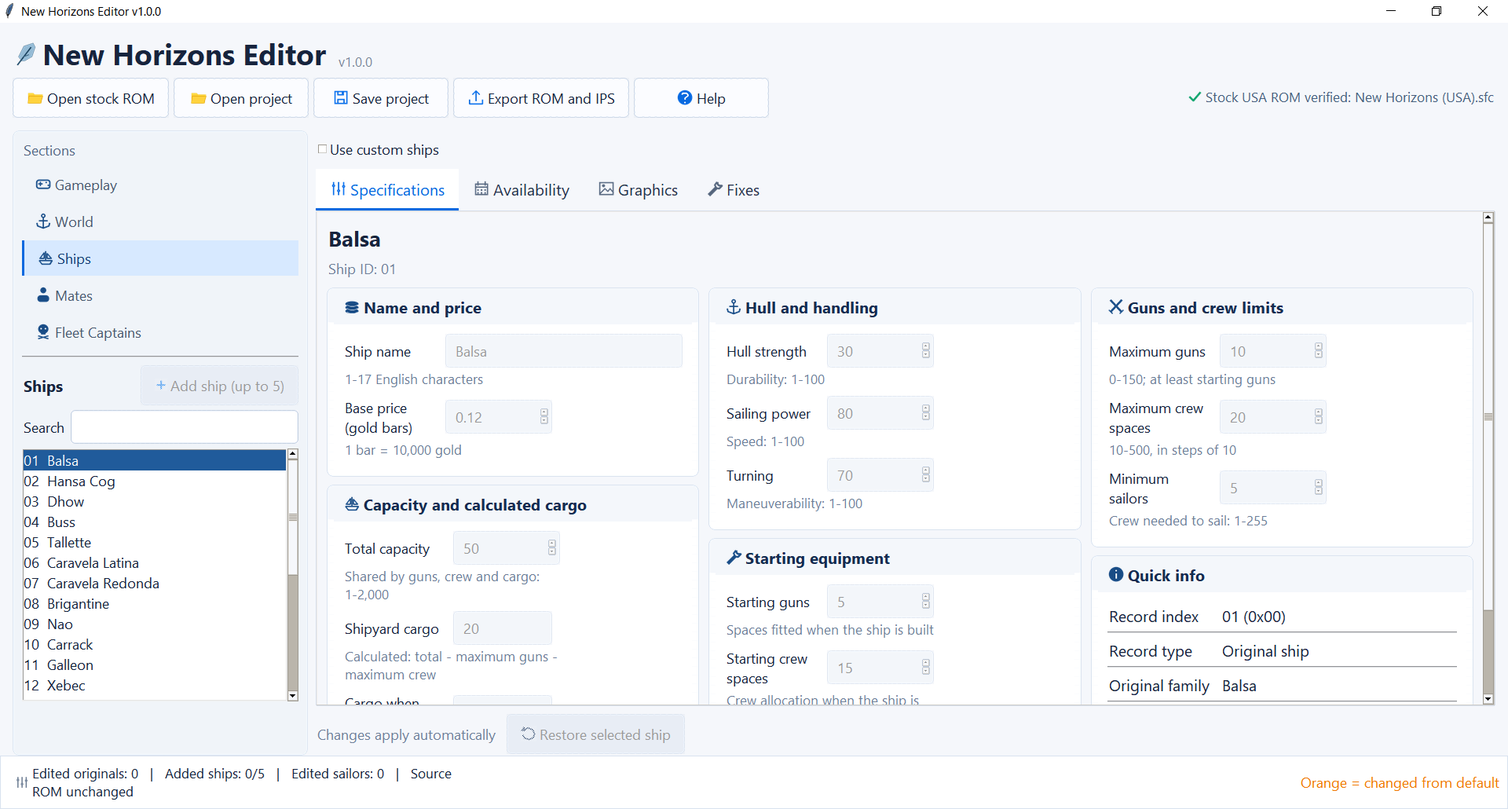
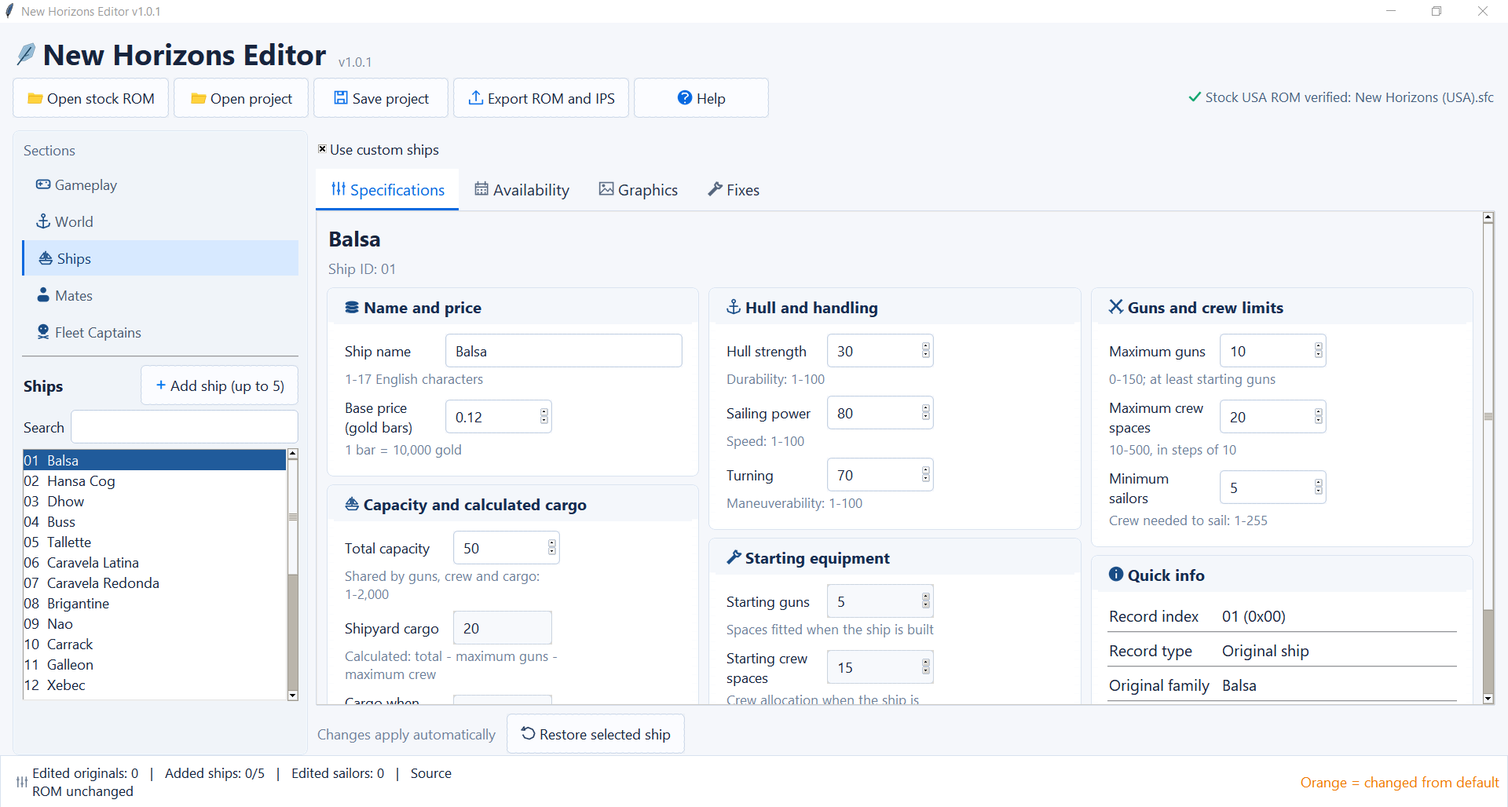
Release v1.0.1 — Improvements and bug fixes

diff --git a/tools/package_maintenance_release.py b/tools/package_maintenance_release.py
@@ -1,0 +1,68 @@
+"""Publish an isolated v1.0.1 backport after scope, isolation and test audits."""
+import argparse,hashlib,json,shutil,zipfile
+from pathlib import Path
+ROOT=Path(__file__).resolve().parents[1]
+CHECKS=('item-shuffle','goods-shuffle','presets','help')
+MODIFIED={'mod_tool/item_shuffle_view.py','mod_tool/goods_shuffle_view.py','mod_tool/app.py','mod_tool/backend.py','mod_tool/VERSION','mod_tool/README.md','mod_tool/README.txt','mod_tool/CHANGELOG.md','mod_tool/DEVELOPMENT.md'}
+
+
+def sha(path):return hashlib.sha256(path.read_bytes()).hexdigest()
+def normalized(data):return data.decode('utf-8').replace('\r\n','\n')
+
+
+def main():
+    parser=argparse.ArgumentParser()
+    for key in ('stage','destination','base-source','dev-snapshot'):parser.add_argument('--'+key,type=Path,required=True)
+    args=parser.parse_args();stage=args.stage;destination=args.destination
+    exe=stage/'Windows/New Horizons Ship Editor.exe';digest=sha(exe)
+    for name in CHECKS:
+        data=json.loads((stage/'packaged'/f'{name}.json').read_text(encoding='utf-8'))
+        assert data['status']=='PASS'and data['version']=='1.0.1'and data['exe_sha256']==digest
+    unit=(stage/'unit-tests.txt').read_text(encoding='utf-8')
+    assert 'Ran 50 tests'in unit and '\nOK\n'in unit and 'FAILED'not in unit
+    snapshots=json.loads(args.dev_snapshot.read_text(encoding='utf-8'))
+    assert all(Path(path).is_file()and sha(Path(path))==expected for path,expected in snapshots.items()),'v1.1-dev changed'
+    modified=[]
+    with zipfile.ZipFile(args.base_source)as original:
+        old={name.split('/',1)[1]:original.read(name)for name in original.namelist()if not name.endswith('/')}
+        for relative,content in old.items():
+            path=ROOT/relative;assert path.is_file(),relative
+            if path.read_bytes()!=content:modified.append(relative)
+        assert set(modified)==MODIFIED,modified
+        new_backend=(ROOT/'mod_tool/backend.py').read_text(encoding='utf-8')
+        assert new_backend.replace("TOOL_VERSION='1.0.1'","TOOL_VERSION='1.0.0'")==normalized(old['mod_tool/backend.py'])
+        main=(ROOT/'mod_tool/app.py').read_text(encoding='utf-8')
+        for kind in ('item','goods'):
+            block=f"    if len(sys.argv)==5 and sys.argv[1]=='--{kind}-shuffle-test'and sys.argv[3]=='--report':\n        from {kind}_shuffle_checks import run\n        run(Editor,sys.argv[2],Path(sys.argv[4]));return\n"
+            assert block in main;main=main.replace(block,'',1)
+        assert main==normalized(old['mod_tool/app.py']),'Unexpected app change'
+    assert (ROOT/'mod_tool/VERSION').read_text().strip()=='1.0.1'
+    assert not destination.exists(),'Do not overwrite an existing release'
+    destination.mkdir(parents=True)
+    windows=destination/'Windows';shutil.copytree(stage/'Windows',windows)
+    for name in ('README.md','README.txt','CHANGELOG.md','VERSION','LICENSE','Pillow.LICENSE','UWNHRando.LICENSE'):
+        shutil.copy2(ROOT/'mod_tool'/name,windows/name)
+    win=destination/'New Horizons Editor Windows v1.0.1.zip'
+    source=destination/'New Horizons Editor Source v1.0.1.zip'
+    with zipfile.ZipFile(win,'w',zipfile.ZIP_DEFLATED)as z:
+        for path in windows.iterdir():z.write(path,'New Horizons Editor v1.0.1/'+path.name)
+    with zipfile.ZipFile(source,'w',zipfile.ZIP_DEFLATED)as z:
+        for folder in ('mod_tool','tests','tools'):
+            for path in (ROOT/folder).rglob('*'):
+                if path.is_file()and not set(path.relative_to(ROOT).parts)&{'__pycache__','build','dist'}and path.suffix not in ('.pyc','.exe','.sfc','.smc','.srm','.zip'):
+                    z.write(path,'New Horizons Editor Source v1.0.1/'+path.relative_to(ROOT).as_posix())
+    audit=dict(status='PASS',version='1.0.1',base_source_sha256=sha(args.base_source),modified_original_files=sorted(modified),v1_1_dev_unchanged=True,v1_1_dev_files_checked=len(snapshots),rom_patch_logic_unchanged=True,project_format=19,added_ship_limit=5,original_presets=13)
+    (destination/'Backport Audit.json').write_text(json.dumps(audit,indent=2)+'\n',encoding='utf-8')
+    validation=dict(status='PASS',version='1.0.1',exe_sha256=digest,unit_tests=50,packaged_checks=list(CHECKS),scope='Item/goods shuffle footer fix only, plus version/docs and regression checks. No emulator gameplay run for this UI-only fix.')
+    (destination/'Validation.json').write_text(json.dumps(validation,indent=2)+'\n',encoding='utf-8')
+    shutil.copytree(stage/'packaged',destination/'Validation reports');shutil.copy2(stage/'unit-tests.txt',destination/'Validation reports/unit-tests.txt')
+    (destination/'SHA256SUMS.txt').write_text(''.join(sha(path)+'  '+path.relative_to(destination).as_posix()+'\n'for path in (win,source,windows/exe.name)),encoding='utf-8')
+    for path in (win,source):
+        with zipfile.ZipFile(path)as z:
+            assert z.testzip()is None
+            assert not any(name.lower().endswith(('.sfc','.smc','.srm'))for name in z.namelist())
+    assert sha(windows/exe.name)==digest
+    print(json.dumps(dict(validation,destination=str(destination),v1_1_dev_unchanged=True),indent=2))
+
+
+if __name__=='__main__':main()

diff --git a/mod_tool/goods_shuffle_checks.py b/mod_tool/goods_shuffle_checks.py
@@ -1,0 +1,65 @@
+"""Goods shuffle footer visibility, actual clicks and transactional operations."""
+import json,tempfile,tkinter as tk
+from pathlib import Path
+from unittest.mock import patch
+from backend import ShipProject,apply_ips
+from goods_shuffle_view import open_shuffle,MODES
+
+
+def run(Editor,rom,report):
+    report=Path(report);report.parent.mkdir(parents=True,exist_ok=True)
+    root=tk.Tk();root.attributes('-topmost',True)
+    try:
+        app=Editor(root)
+        with patch('tkinter.filedialog.askopenfilename',return_value=str(rom)):app.open_rom()
+        p=app.project
+        def settle():
+            ready=tk.BooleanVar(root,value=False);root.after(90,lambda:ready.set(True));root.wait_variable(ready);root.update()
+        def exposed():
+            d=app.goods_shuffle_dialog
+            for b in app.goods_shuffle_buttons:
+                assert b.winfo_ismapped(),b.cget('text')
+                x=b.winfo_rootx()+b.winfo_width()//2;y=b.winfo_rooty()+b.winfo_height()//2
+                assert d.winfo_rootx()<=x<d.winfo_rootx()+d.winfo_width()
+                assert d.winfo_rooty()<=b.winfo_rooty()and b.winfo_rooty()+b.winfo_height()<=d.winfo_rooty()+d.winfo_height(),(b.cget('text'),d.geometry(),b.winfo_geometry())
+                assert root.winfo_containing(x,y)==b,(b.cget('text'),'covered')
+        clock=1000
+        def click(index):
+            nonlocal clock
+            exposed();b=app.goods_shuffle_buttons[index];clock+=1000
+            x=b.winfo_width()//2;y=b.winfo_height()//2
+            b.event_generate('<ButtonPress-1>',x=x,y=y,time=clock)
+            b.event_generate('<ButtonRelease-1>',x=x,y=y,time=clock+1);settle()
+        errors=[]
+        with patch('tkinter.messagebox.showerror',side_effect=lambda *a,**k:errors.append(a)):
+            before=p.manifest();open_shuffle(app);settle()
+            assert [b.cget('text')for b in app.goods_shuffle_buttons]==['Random shuffle','Apply shuffle','Restore goods','Cancel']
+            for size in ('700x590','400x380','500x430','900x700'):
+                app.goods_shuffle_dialog.geometry(size+'+40+40');settle();exposed()
+                assert app.goods_shuffle_preview.winfo_height()>20
+            with patch('goods_shuffle_view.random_seed',return_value='9876'):click(0)
+            assert app.goods_shuffle_seed.get()=='9876'and p.manifest()==before
+            click(3);assert p.manifest()==before and not app.goods_shuffle_dialog.winfo_exists()
+            for mode in MODES:
+                open_shuffle(app);settle();app.goods_shuffle_mode.set(mode);app.goods_shuffle_seed.set('1234');settle()
+                assert app.goods_shuffle_candidates and p.manifest()==before
+                app.goods_shuffle_dialog.geometry('400x380+40+40');settle();click(1)
+                assert p.goods_shuffle['seed']=='1234'and p.goods_shuffle['mode']==MODES[mode]
+                with tempfile.TemporaryDirectory()as folder:
+                    path=Path(folder);p.save_project(path/'project.json');q=ShipProject(p.source);q.load_project(path/'project.json')
+                    assert q.manifest()==p.manifest();p.export(path/'test.sfc')
+                    assert apply_ips(p.rom,(path/'test.ips').read_bytes())==(path/'test.sfc').read_bytes()
+                open_shuffle(app);settle();app.goods_shuffle_seed.set('9876');settle();click(3)
+                assert p.goods_shuffle['seed']=='1234'
+                open_shuffle(app);settle();app.goods_shuffle_dialog.geometry('400x380+40+40');settle();click(2)
+                assert p.manifest()==before
+            open_shuffle(app);settle();app.goods_shuffle_blind.set(True);settle()
+            assert app.goods_shuffle_preview.get(0)=='Blind shuffle: destinations are hidden.'
+            click(1);assert p.goods_shuffle['blind']
+            open_shuffle(app);settle();click(2);assert p.manifest()==before
+            assert not errors,errors
+        report.write_text(json.dumps(dict(status='PASS',all_four_buttons_visible=True,real_pointer_clicks=True,window_sizes=['700x590','400x380','500x430','900x700'],random_previews_without_applying=True,cancel_keeps_current_settings=True,three_modes_apply=True,restore_goods=True,blind_mode=True,project_and_rom_ips_roundtrip=True),indent=2),encoding='utf-8')
+    except Exception as error:
+        import traceback
+        report.write_text(json.dumps(dict(status='FAIL',error=str(error),traceback=traceback.format_exc()),indent=2),encoding='utf-8');raise
+    finally:root.destroy()

diff --git a/mod_tool/item_shuffle_checks.py b/mod_tool/item_shuffle_checks.py
@@ -1,0 +1,65 @@
+"""Item shuffle footer visibility, actual clicks and transactional operations."""
+import json,tempfile,tkinter as tk
+from pathlib import Path
+from unittest.mock import patch
+from backend import ShipProject,apply_ips
+from item_shuffle_view import open_shuffle,MODES
+
+
+def run(Editor,rom,report):
+    report=Path(report);report.parent.mkdir(parents=True,exist_ok=True)
+    root=tk.Tk();root.attributes('-topmost',True)
+    try:
+        app=Editor(root)
+        with patch('tkinter.filedialog.askopenfilename',return_value=str(rom)):app.open_rom()
+        p=app.project
+        def settle():
+            ready=tk.BooleanVar(root,value=False);root.after(90,lambda:ready.set(True));root.wait_variable(ready);root.update()
+        def exposed():
+            d=app.item_shuffle_dialog
+            for b in app.item_shuffle_buttons:
+                assert b.winfo_ismapped(),b.cget('text')
+                x=b.winfo_rootx()+b.winfo_width()//2;y=b.winfo_rooty()+b.winfo_height()//2
+                assert d.winfo_rootx()<=x<d.winfo_rootx()+d.winfo_width()
+                assert d.winfo_rooty()<=b.winfo_rooty()and b.winfo_rooty()+b.winfo_height()<=d.winfo_rooty()+d.winfo_height(),(b.cget('text'),d.geometry(),b.winfo_geometry())
+                assert root.winfo_containing(x,y)==b,(b.cget('text'),'covered')
+        clock=1000
+        def click(index):
+            nonlocal clock
+            exposed();b=app.item_shuffle_buttons[index];clock+=1000
+            x=b.winfo_width()//2;y=b.winfo_height()//2
+            b.event_generate('<ButtonPress-1>',x=x,y=y,time=clock)
+            b.event_generate('<ButtonRelease-1>',x=x,y=y,time=clock+1);settle()
+        errors=[]
+        with patch('tkinter.messagebox.showerror',side_effect=lambda *a,**k:errors.append(a)):
+            before=p.manifest();open_shuffle(app);settle()
+            assert [b.cget('text')for b in app.item_shuffle_buttons]==['Random shuffle','Apply shuffle','Restore items','Cancel']
+            for size in ('680x560','400x380','500x430','900x700'):
+                app.item_shuffle_dialog.geometry(size+'+40+40');settle();exposed()
+                assert app.item_shuffle_preview.winfo_height()>20
+            with patch('item_shuffle_view.random_seed',return_value='9876'):click(0)
+            assert app.item_shuffle_seed.get()=='9876'and p.manifest()==before
+            click(3);assert p.manifest()==before and not app.item_shuffle_dialog.winfo_exists()
+            for mode in MODES:
+                open_shuffle(app);settle();app.item_shuffle_mode.set(mode);app.item_shuffle_seed.set('1234');settle()
+                assert app.item_shuffle_candidates and p.manifest()==before
+                app.item_shuffle_dialog.geometry('400x380+40+40');settle();click(1)
+                assert p.item_seed=='1234'and p.item_special_only==(mode==MODES[2])and p.item_special==(mode==MODES[1])
+                with tempfile.TemporaryDirectory()as folder:
+                    path=Path(folder);p.save_project(path/'project.json');q=ShipProject(p.source);q.load_project(path/'project.json')
+                    assert q.manifest()==p.manifest();p.export(path/'test.sfc')
+                    assert apply_ips(p.rom,(path/'test.ips').read_bytes())==(path/'test.sfc').read_bytes()
+                open_shuffle(app);settle();app.item_shuffle_seed.set('9876');settle();click(3)
+                assert p.item_seed=='1234'
+                open_shuffle(app);settle();app.item_shuffle_dialog.geometry('400x380+40+40');settle();click(2)
+                assert p.manifest()==before
+            open_shuffle(app);settle();app.item_shuffle_blind.set(True);settle()
+            assert app.item_shuffle_preview.get(0)=='Blind shuffle: destinations are hidden.'
+            click(1);assert p.item_blind
+            open_shuffle(app);settle();click(2);assert p.manifest()==before
+            assert not errors,errors
+        report.write_text(json.dumps(dict(status='PASS',all_four_buttons_visible=True,real_pointer_clicks=True,window_sizes=['680x560','400x380','500x430','900x700'],random_previews_without_applying=True,cancel_keeps_current_settings=True,three_modes_apply=True,restore_items=True,blind_mode=True,project_and_rom_ips_roundtrip=True),indent=2),encoding='utf-8')
+    except Exception as error:
+        import traceback
+        report.write_text(json.dumps(dict(status='FAIL',error=str(error),traceback=traceback.format_exc()),indent=2),encoding='utf-8');raise
+    finally:root.destroy()

diff --git a/mod_tool/goods_shuffle_view.py b/mod_tool/goods_shuffle_view.py
@@ -11,8 +11,9 @@ def open_shuffle(app):
  if not p:return
  app.commit();dialog=tk.Toplevel(app.root);dialog.title('Goods seed shuffle');dialog.geometry('700x590');dialog.minsize(400,380);dialog.transient(app.root);dialog.grab_set()
  frame=ttk.Frame(dialog,padding=16);frame.pack(fill='both',expand=True)
+ buttons=ttk.Frame(frame);buttons.pack(side='bottom',fill='x',pady=(8,0))
  ttk.Label(frame,text='Shuffle goods',font=('Segoe UI',14,'bold')).pack(anchor='w')
- hint=ttk.Label(frame,text='The same four-digit seed, option and blind mode reproduce the same arrangement. Normal and specialty goods shuffle within their own groups. Port offer counts and economy gates stay the same; base prices travel with their goods. Replaces current goods locations. Start a new game.',wraplength=640);hint.pack(anchor='w',pady=(6,12))
+ hint=ttk.Label(frame,text='Same seed, mode and blind setting repeat the shuffle. Counts and economy gates stay fixed; prices move with goods. Start a new game.',wraplength=640);hint.pack(anchor='w',pady=(6,12))
  seed=tk.StringVar(value=p.goods_shuffle['seed']or '0000');mode=tk.StringVar(value=next(k for k,v in MODES.items()if v==p.goods_shuffle['mode']))
  row=ttk.Frame(frame);row.pack(fill='x',pady=(0,8));ttk.Label(row,text='Seed (0000–9999)').pack(side='left',padx=(0,10));entry=ttk.Entry(row,textvariable=seed,width=8);entry.pack(side='left')
  choice=ttk.Combobox(frame,textvariable=mode,values=list(MODES),state='readonly',width=32);choice.pack(anchor='w',pady=(0,8))
@@ -32,15 +33,16 @@ def open_shuffle(app):
   except ValueError as error:messagebox.showerror('Could not shuffle goods',str(error),parent=dialog)
  def restore():
   p.goods_edits=[];p.goods_shuffle=dict(seed=None,mode='normal');app.reload_project_view();dialog.destroy()
- buttons=ttk.Frame(frame);buttons.pack(fill='x');widgets=[]
- for label,command in [('Random seed',lambda:seed.set(random_seed())),('Apply shuffle',apply),('Restore stock goods',restore),('Cancel',dialog.destroy)]:widgets.append(ttk.Button(buttons,text=label,command=command))
- def arrange(event):
+ widgets=[]
+ for label,command in [('Random shuffle',lambda:seed.set(random_seed())),('Apply shuffle',apply),('Restore goods',restore),('Cancel',dialog.destroy)]:widgets.append(ttk.Button(buttons,text=label,command=command))
+ def arrange(event=None):
+  available=event.width if event is not None else 368
   row=column=used=0
   for button in widgets:
    width=button.winfo_reqwidth()+6
-   if used and used+width>event.width:row+=1;column=used=0
+   if used and used+width>available:row+=1;column=used=0
    button.grid(row=row,column=column,sticky='w',padx=(0,6),pady=3);used+=width;column+=1
- buttons.bind('<Configure>',arrange);frame.bind('<Configure>',lambda event:hint.configure(wraplength=max(250,event.width-32)))
+ buttons.bind('<Configure>',arrange);arrange();frame.bind('<Configure>',lambda event:hint.configure(wraplength=max(250,event.width-32)))
  for variable in (seed,mode,blind):variable.trace_add('write',refresh)
  app.goods_shuffle_blind=blind
  app.goods_shuffle_dialog=dialog;app.goods_shuffle_seed=seed;app.goods_shuffle_mode=mode;app.goods_shuffle_preview=preview;app.goods_shuffle_candidates=candidates;app.goods_shuffle_buttons=widgets

diff --git a/mod_tool/item_shuffle_view.py b/mod_tool/item_shuffle_view.py
@@ -10,6 +10,9 @@ def open_shuffle(app):
  if not p:return
  app.commit();dialog=tk.Toplevel(app.root);dialog.title('Item shop shuffle');dialog.geometry('680x560');dialog.minsize(400,380);dialog.transient(app.root);dialog.grab_set()
  frame=ttk.Frame(dialog,padding=16);frame.pack(fill='both',expand=True)
+ # Reserve the actions before allocating the expanding preview. Otherwise its
+ # requested height can push the entire footer outside a small dialog.
+ buttons=ttk.Frame(frame);buttons.pack(side='bottom',fill='x',pady=(8,0))
  ttk.Label(frame,text='Shuffle item locations',font=('Segoe UI',14,'bold')).pack(anchor='w')
  hint=ttk.Label(frame,text='Share the seed, option and blind mode to reproduce this shuffle. Special items are the early-morning offers (02:00–02:59). Stock counts and offer types stay the same. Start a new game.',wraplength=620);hint.pack(anchor='w',pady=(6,12))
  seed=tk.StringVar(value=p.item_seed or '0000');mode=tk.StringVar(value=MODES[2 if p.item_special_only else int(p.item_special)]);blind=tk.BooleanVar(value=p.item_blind)
@@ -32,16 +35,17 @@ def open_shuffle(app):
   except ValueError as error:messagebox.showerror('Could not shuffle items',str(error),parent=dialog)
  def restore():
   p.item_edits=[];p.item_seed=None;p.item_blind=False;p.item_special=False;p.item_special_only=False;app.reload_project_view();dialog.destroy()
- buttons=ttk.Frame(frame);buttons.pack(fill='x');widgets=[]
- for label,command in [('Random seed',lambda:seed.set(random_seed())),('Apply shuffle',apply),('Restore stock items',restore),('Cancel',dialog.destroy)]:
+ widgets=[]
+ for label,command in [('Random shuffle',lambda:seed.set(random_seed())),('Apply shuffle',apply),('Restore items',restore),('Cancel',dialog.destroy)]:
   button=ttk.Button(buttons,text=label,command=command);widgets.append(button)
- def arrange(event):
+ def arrange(event=None):
+  available=event.width if event is not None else 368
   row=column=used=0
   for button in widgets:
    width=button.winfo_reqwidth()+6
-   if used and used+width>event.width:row+=1;column=used=0
+   if used and used+width>available:row+=1;column=used=0
    button.grid(row=row,column=column,sticky='w',padx=(0,6),pady=3);used+=width;column+=1
- buttons.bind('<Configure>',arrange);frame.bind('<Configure>',lambda event:hint.configure(wraplength=max(250,event.width-32)))
+ buttons.bind('<Configure>',arrange);arrange();frame.bind('<Configure>',lambda event:hint.configure(wraplength=max(250,event.width-32)))
  for variable in (seed,mode,blind):variable.trace_add('write',refresh)
  app.item_shuffle_dialog=dialog;app.item_shuffle_seed=seed;app.item_shuffle_mode=mode;app.item_shuffle_blind=blind;app.item_shuffle_preview=preview;app.item_shuffle_candidates=candidates;app.item_shuffle_buttons=widgets
  refresh()

diff --git a/tools/check_maintenance_windows.py b/tools/check_maintenance_windows.py
@@ -1,0 +1,24 @@
+"""Validate v1.0.1 separately; every GUI process uses temporary user storage."""
+import argparse,hashlib,json,os,subprocess,tempfile
+from pathlib import Path
+ROOT=Path(__file__).resolve().parents[1]
+
+
+def main():
+    parser=argparse.ArgumentParser();parser.add_argument('--exe',type=Path,required=True)
+    parser.add_argument('--rom',type=Path,required=True);parser.add_argument('--reports',type=Path,required=True)
+    args=parser.parse_args();args.reports.mkdir(parents=True,exist_ok=True)
+    digest=hashlib.sha256(args.exe.read_bytes()).hexdigest()
+    for name in ('item-shuffle','goods-shuffle','presets','help'):
+        report=args.reports/(name+'.json');report.unlink(missing_ok=True)
+        with tempfile.TemporaryDirectory()as folder:
+            command=[str(args.exe),'--help-test',str(report)]if name=='help'else [str(args.exe),'--'+name+'-test',str(args.rom),'--report',str(report)]
+            result=subprocess.run(command,env=dict(os.environ,LOCALAPPDATA=folder),capture_output=True,text=True,timeout=180)
+            assert result.returncode==0,(name,result.returncode,result.stdout,result.stderr)
+        data=json.loads(report.read_text(encoding='utf-8'));assert data['status']=='PASS',data
+        data.update(version='1.0.1',exe_sha256=digest,isolated_user_storage=True)
+        report.write_text(json.dumps(data,indent=2)+'\n',encoding='utf-8')
+        print('PASS v1.0.1 Windows '+name,flush=True)
+
+
+if __name__=='__main__':main()

diff --git a/mod_tool/app.py b/mod_tool/app.py
@@ -1293,6 +1293,12 @@ class Editor:
 def main():
     try:ctypes.windll.shcore.SetProcessDpiAwareness(1)
     except Exception:pass
+    if len(sys.argv)==5 and sys.argv[1]=='--item-shuffle-test'and sys.argv[3]=='--report':
+        from item_shuffle_checks import run
+        run(Editor,sys.argv[2],Path(sys.argv[4]));return
+    if len(sys.argv)==5 and sys.argv[1]=='--goods-shuffle-test'and sys.argv[3]=='--report':
+        from goods_shuffle_checks import run
+        run(Editor,sys.argv[2],Path(sys.argv[4]));return
     if len(sys.argv)==5 and sys.argv[1]=='--shipbuilding-test'and sys.argv[3]=='--report':
         from shipbuilding_checks import run
         run(Editor,sys.argv[2],Path(sys.argv[4]));return

diff --git a/mod_tool/backend.py b/mod_tool/backend.py
@@ -4,7 +4,7 @@ from decimal import Decimal,InvalidOperation
 from pathlib import Path
 
[1 lines of base64/hex data omitted]
-TOOL_VERSION='1.0.0'
+TOOL_VERSION='1.0.1'
 MODEL_BASE=0x8cbb6
 SPEC_BASE=0x8ce27
 FIELDS=('name','hull','turning','power','max_guns','min_crew','max_crew','price_gold')

diff --git a/mod_tool/DEVELOPMENT.md b/mod_tool/DEVELOPMENT.md
@@ -437,3 +437,8 @@ Final preset validation:43 unit tests PASS. Preset drafts and Apply validate a c
 2026-10-16: Version1.0.0, project format19. Original-25 shipbuilding shuffle permutes stock port groups using deterministic constrained bipartite matching, preserving per-port counts and per-model industry. Existing native locked-capital entries grandfathered; new locked-capital assignments excluded. No safe match rejects atomically. Added ships unchanged. Backup of pre-first-shuffle availability persists; disable/Restore previous/Reset Gameplay restores it, checking16-offer menu cap after added-ship edits. Manual original-availability edits clear metadata; stats edits retain it. Blind mode hides original ship destinations in popup, ship port selector, Port Information and changes report; project retains data. Random Shipyards added as13th preset and included in Fresh/Full/Uncharted. No new ROM hooks; existing availability compiler used. Native Mesen13772 shipyard-list/industry cases PASS across0/5 additions, normal/blind and combined preset, with UI rendering stubbed. First broad regression exposed schema19 key recognition and a pre-existing map_app/world import collision in shared test discovery; key whitelist fixed, atlas test group isolated. All171 tests then passed; final restore overflow test/checks recorded in release reports.
 
 Final1.0.0 regression:172 tests PASS (editor modules plus isolated atlas group), including restore overflow rejection without mutation. Packaged shipbuilding and13-preset checks PASS. Native shipyard probe13772 cases PASS; remaining final UI reports are attached to the release folder.
+
+
+## 1.0.1 maintenance backport - October 18, 2026
+
+Based solely on the provided v1.0.0 source archive. Reserve item/goods shuffle action footers before expanding previews and give buttons an initial grid layout. Both dialogs wrap Random shuffle, Apply shuffle, Restore items/goods and Cancel at small widths. Goods hint is shortened so the preview remains usable at 400x380. No randomization algorithm, ROM patch logic, project schema, presets or feature limits changed. Added --item-shuffle-test and --goods-shuffle-test paths exercise actual clicks, four sizes, all modes, blind/cancel/restore and project/ROM/IPS roundtrips. The v1.1-dev source and release are separate and remain unchanged.

diff --git a/README.md b/README.md
@@ -1,17 +1,17 @@
 # New Horizons Editor
 
-**Version 1.0.0 — Windows**
+**Version 1.0.1 — Windows**
 
 A fan-made ROM editor for the original USA SNES version of **Uncharted Waters: New Horizons**. Customize the game, try a preset adventure, or shuffle familiar content to make your next playthrough feel different.
 
 ## Screenshot
 
-![New Horizons Editor v0.3.0](screenshot.PNG)
+![New Horizons Editor v1.0.1](screenshot.PNG)
 
 
 ## Screenshot
 
-![New Horizons Editor v0.3.0](screenshot2.PNG)
+![New Horizons Editor v1.0.1](screenshot2.PNG)
 
 
 ## What can you change?

diff --git a/mod_tool/CHANGELOG.md b/mod_tool/CHANGELOG.md
@@ -1,5 +1,9 @@
 # Changelog
 
+## 1.0.1 — October 18, 2026
+
+- Keep item and goods shuffle buttons visible in smaller windows.
+
 ## 1.0.0 — October 16, 2026
 
 - Add seeded and blind ship-building randomization for the original 25 ships, with a standalone preset and combined preset support.
